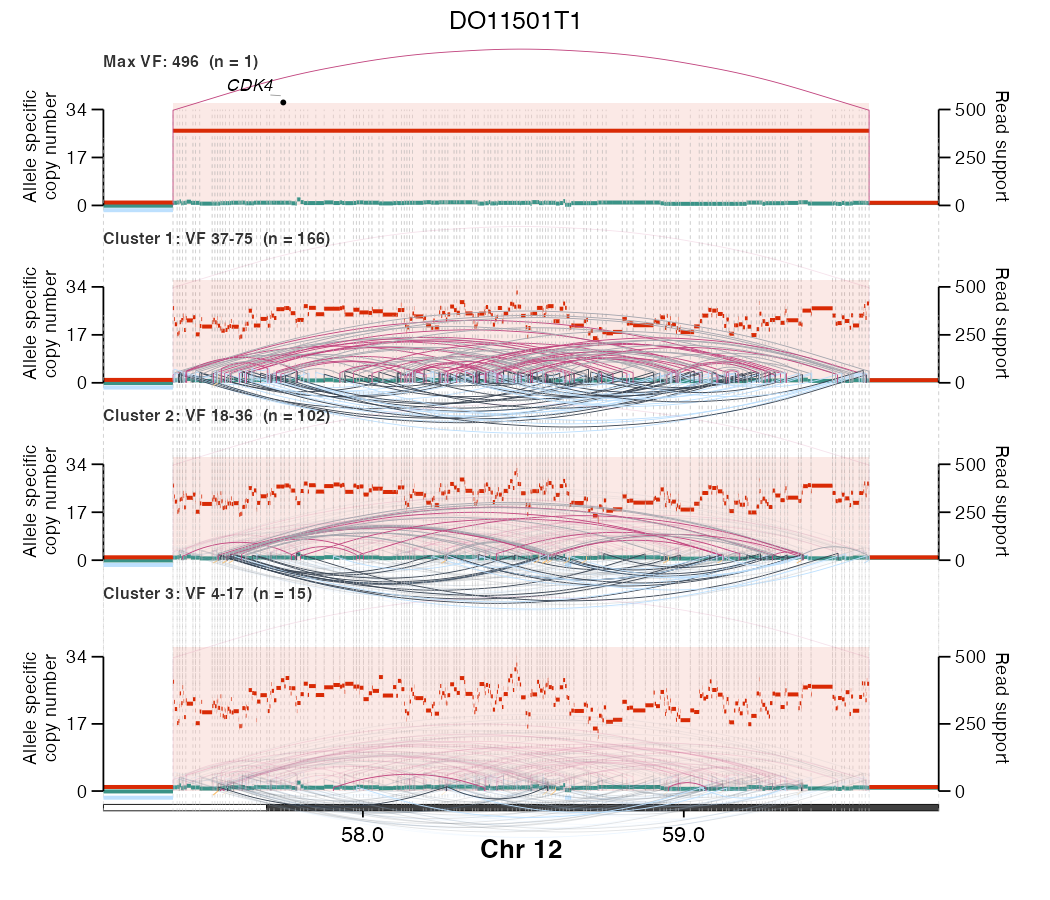
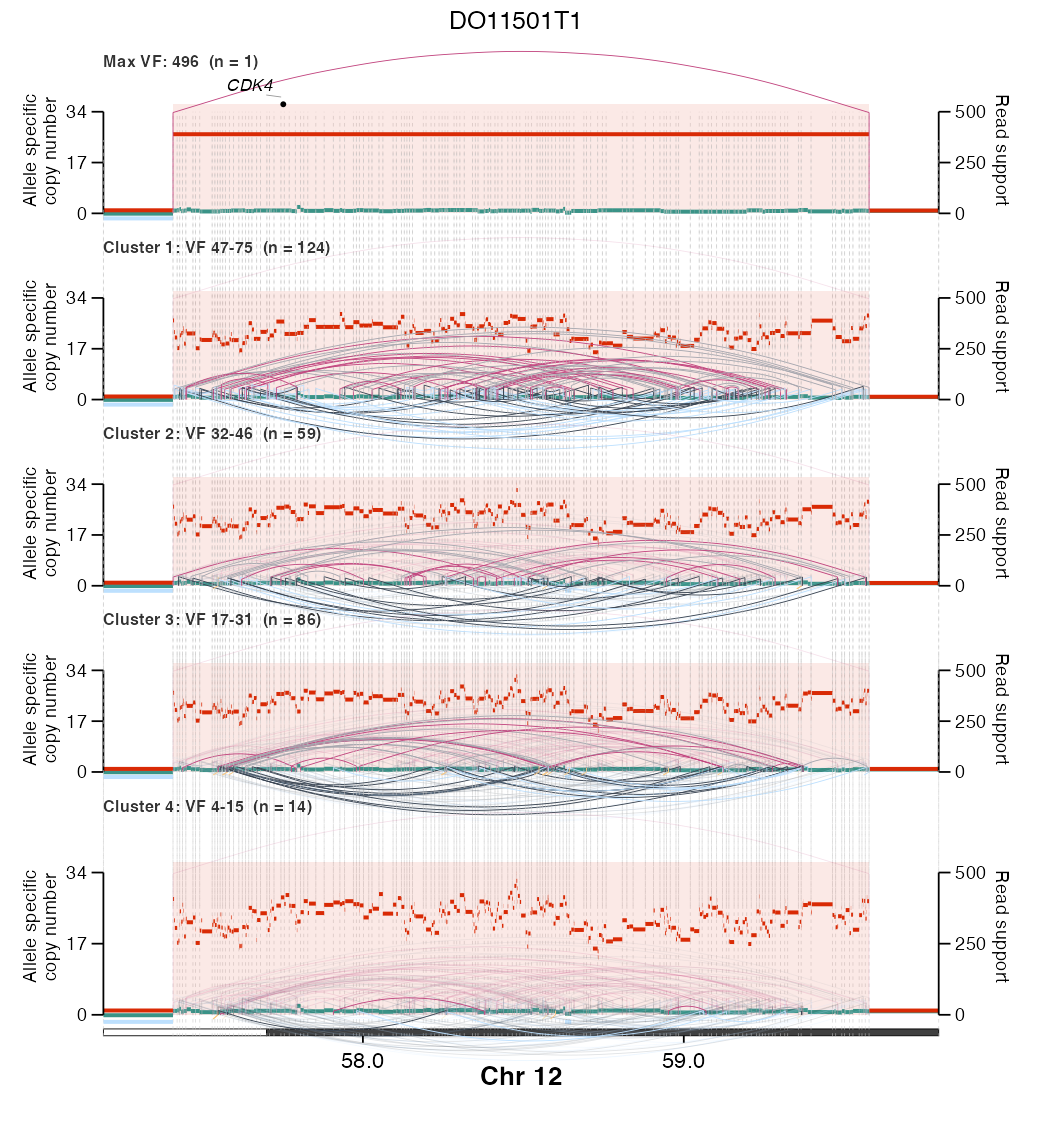
plot_sv_reconstruction: default k to "auto"; drop README visual section
- k now defaults to "auto" (data-driven number of VF strata) instead of 3;
  docs and man updated to match.
- Remove the README 'Visualising rearrangements' section (kept the tools-table
  link); the example figure remains in docs/plot_sv_reconstruction.md.
- Re-render the two example reconstructions under the new default (auto now
  resolves ~5 strata for these dense amplicons).
- Sync package-level Rd description with DESCRIPTION.

diff --git a/README.md b/README.md
@@ -28,21 +28,6 @@ whole-genome sequencing (WGS) data — click a tool for its full documentation:
 > derived from other SV and CNV callers, although this is not the recommended
 > option.
 
-## Visualising rearrangements
-
-Both plotters draw allele-specific copy number and structural-variant arcs on a
-shared, concatenated-locus axis. `plot_sv_reconstruction()` goes further and
-**reconstructs a focal amplicon wave by wave**, stacking one panel per
-read-support (`VF`) stratum (highest support on top). Below, *MDM4* (chr1),
-*PDGFRA* (chr4) and *CDK4* (chr12) are co-amplified and stitched together by
-inter-chromosomal junctions (orange arcs) in `HMF000570T2`:
-
-![Multi-oncogene co-amplification reconstructed in HMF000570T2](man/figures/README-HMF000570T2-reconstruction.png)
-
-See [`plot_sv_linear()`](docs/plot_sv_linear.md) for the single-panel viewer and
-[`plot_sv_reconstruction()`](docs/plot_sv_reconstruction.md) for the stacked,
-wave-by-wave reconstruction.
-
 ## Installation
 
 Install with `BiocManager`, which resolves the Bioconductor

diff --git a/docs/plot_sv_reconstruction.md b/docs/plot_sv_reconstruction.md
@@ -98,7 +98,7 @@ arguments below are specific to (or most relevant for) the reconstruction plot.
 | Argument | Default | Description |
 | :--- | :--- | :--- |
 | `vf_col`           | `"VF"`     | Read-support column in `sv_data` (a raw count, clustered on the log scale). |
-| `k`                | `3`        | Number of VF strata; an integer forces it, `"auto"` picks it (Ckmeans.1d.dp BIC, else a WSS elbow capped at `max_k`). |
+| `k`                | `"auto"`   | Number of VF strata; `"auto"` (default) picks it (Ckmeans.1d.dp BIC, else a WSS elbow capped at `max_k`), an integer forces it. |
 | `max_k`            | `4`        | Upper bound on strata when `k = "auto"`. |
 | `vf_breaks`        | `NULL`     | Explicit `VF` cut points (upper edges), e.g. `c(200, 80)`; overrides `k`. |
 | `min_vf`           | `1`        | Drop junctions with `VF` below this before clustering. |
